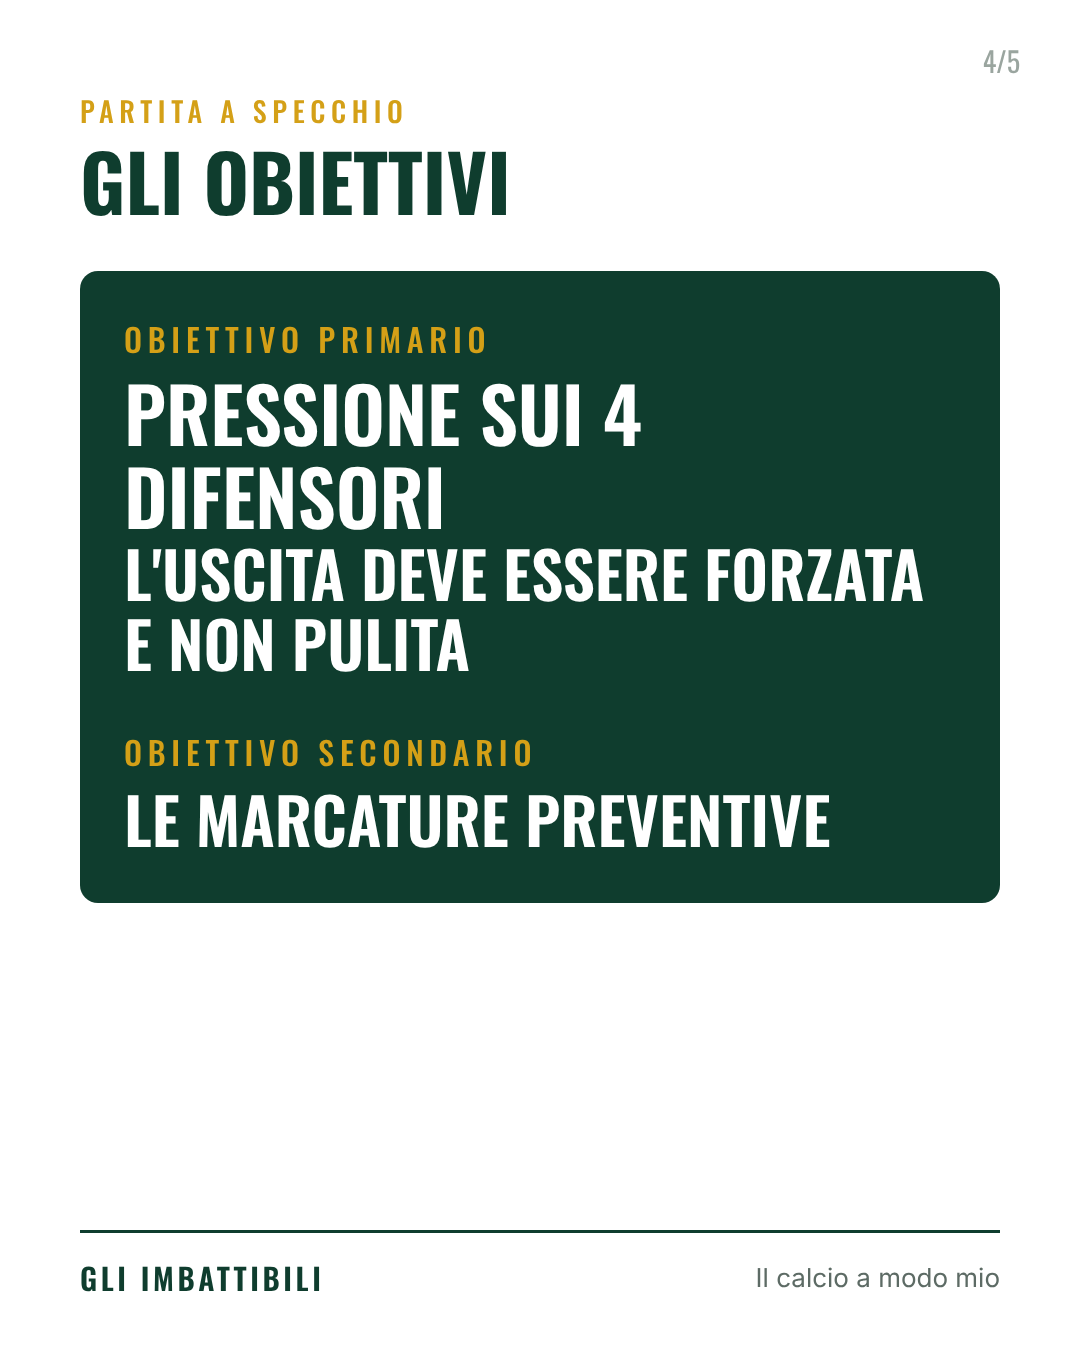
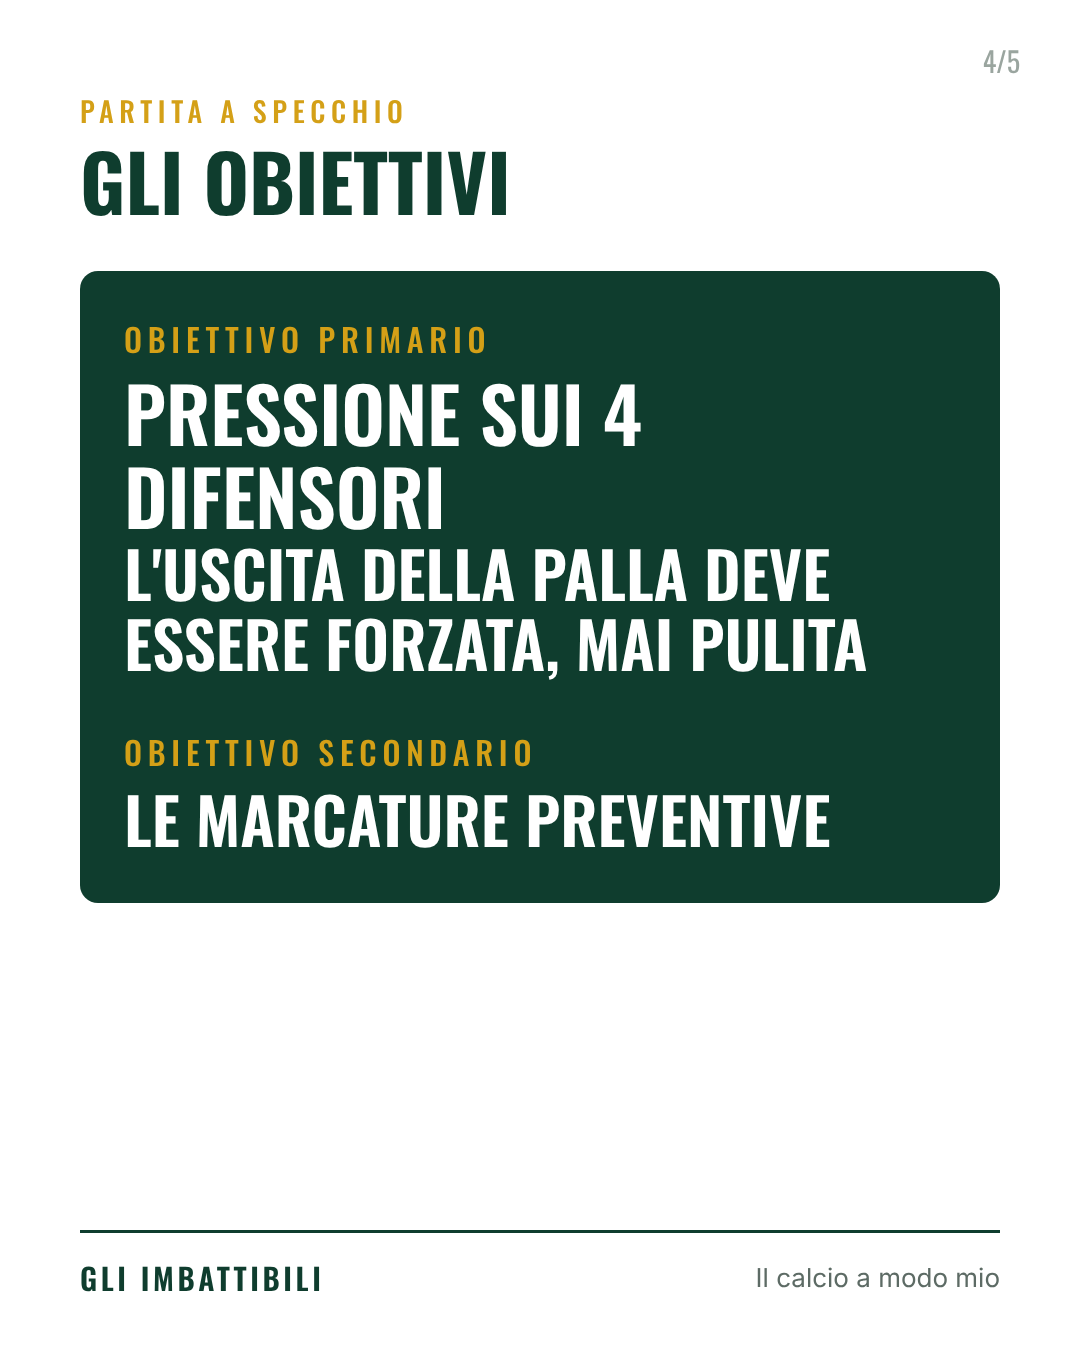
Preventiva 2: testi riscritti in forma professionale; regola appunti in CLAUDE.md
Claude-Session: https://claude.ai/code/session_01Y6imChDnJpMKHUHGGzDa7m

Changed region(s): [[0.1222, 0.4044, 0.8556, 0.4978]]

diff --git a/marketing/social/post-solo6-4x5.html b/marketing/social/post-solo6-4x5.html
@@ -115,17 +115,17 @@ h1, h2 { font-family: Oswald, sans-serif; font-weight: 700; text-transform: uppe
     <path d="M118,140 L322,112" stroke="#fff" stroke-width="2.5" fill="none" stroke-dasharray="7 5" marker-end="url(#freccia)"/>
     <text x="250" y="14" fill="#fff" font-family="Oswald" font-size="11" text-anchor="middle" letter-spacing="1">NESSUNO CAMBIA METÀ · LA PALLA SÌ</text>
   </svg></div>
-  <p class="desc"><b>10 contro 10</b> con i portieri. Campo in due metà: in ognuna <b>6 attaccanti</b> di una squadra contro i <b>4 difensori</b> dell'altra. La palla circola libera tra le metà ma nessun giocatore può cambiare metà: i difensori giocano sempre in <b>inferiorità</b>.</p>
+  <p class="desc"><b>10 contro 10</b> più i portieri. Mezzo campo diviso in due metà: in ciascuna giocano <b>6 attaccanti</b> di una squadra contro i <b>4 difensori</b> dell'altra. La palla circola liberamente tra le metà mentre i giocatori restano nella propria: la difesa lavora sempre in <b>inferiorità numerica</b>.</p>
   <div class="marchio"><b>GLI IMBATTIBILI</b><span>Il calcio a modo mio</span></div>
 </section>
 <section class="slide int">
   <div class="num">3/5</div>
   <div class="kicker">Partita a specchio</div>
   <h2>Le regole</h2>
-  <ul class="punti"><li><b>2 tempi da 15'</b></li><li>Attaccanti a <b>3 tocchi</b>, difensori <b>liberi</b></li><li><b>Gol = 1 punto</b></li><li>Nessuno passa nell'altra metà campo: <b>solo la palla</b></li><li>Si gioca su <b>mezzo campo</b> diviso in due: almeno <b>50 m</b></li><li>Da <b>8 contro 8</b> a <b>11 contro 11</b>. Se i numeri sono dispari c'è un <b>jolly</b> libero di muoversi</li></ul>
+  <ul class="punti"><li><b>2 tempi da 15'</b></li><li>Attaccanti a <b>3 tocchi</b>, difensori <b>liberi</b></li><li><b>Gol = 1 punto</b></li><li>Nessun giocatore può passare nell'altra metà: <b>circola solo la palla</b></li><li>Campo: <b>mezzo campo</b> diviso in due, di almeno <b>50 m</b></li><li>Da <b>8 contro 8</b> a <b>11 contro 11</b>. Con numeri dispari entra un <b>jolly</b> libero di muoversi</li></ul>
   <div class="marchio"><b>GLI IMBATTIBILI</b><span>Il calcio a modo mio</span></div>
 </section>
-<section class="slide int"><div class="num">4/5</div><div class="kicker">Partita a specchio</div><h2>Gli obiettivi</h2><div class="obiettivo"><span>Obiettivo primario</span>Pressione sui 4 difensori<i>L'uscita deve essere forzata e non pulita</i><span class='sec'>Obiettivo secondario</span><i>Le marcature preventive</i></div><div class="marchio"><b>GLI IMBATTIBILI</b><span>Il calcio a modo mio</span></div></section>
+<section class="slide int"><div class="num">4/5</div><div class="kicker">Partita a specchio</div><h2>Gli obiettivi</h2><div class="obiettivo"><span>Obiettivo primario</span>Pressione sui 4 difensori<i>L'uscita della palla deve essere forzata, mai pulita</i><span class='sec'>Obiettivo secondario</span><i>Le marcature preventive</i></div><div class="marchio"><b>GLI IMBATTIBILI</b><span>Il calcio a modo mio</span></div></section>
 <section class="slide fine">
   <img class="logo2" src="../../materiale/brand/logo-cerchio.png">
   <h1>Gli<span>Imbattibili</span></h1>

diff --git a/marketing/social/post-solo6-9x16.html b/marketing/social/post-solo6-9x16.html
@@ -115,17 +115,17 @@ h1, h2 { font-family: Oswald, sans-serif; font-weight: 700; text-transform: uppe
     <path d="M118,140 L322,112" stroke="#fff" stroke-width="2.5" fill="none" stroke-dasharray="7 5" marker-end="url(#freccia)"/>
     <text x="250" y="14" fill="#fff" font-family="Oswald" font-size="11" text-anchor="middle" letter-spacing="1">NESSUNO CAMBIA METÀ · LA PALLA SÌ</text>
   </svg></div>
-  <p class="desc"><b>10 contro 10</b> con i portieri. Campo in due metà: in ognuna <b>6 attaccanti</b> di una squadra contro i <b>4 difensori</b> dell'altra. La palla circola libera tra le metà ma nessun giocatore può cambiare metà: i difensori giocano sempre in <b>inferiorità</b>.</p>
+  <p class="desc"><b>10 contro 10</b> più i portieri. Mezzo campo diviso in due metà: in ciascuna giocano <b>6 attaccanti</b> di una squadra contro i <b>4 difensori</b> dell'altra. La palla circola liberamente tra le metà mentre i giocatori restano nella propria: la difesa lavora sempre in <b>inferiorità numerica</b>.</p>
   <div class="marchio"><b>GLI IMBATTIBILI</b><span>Il calcio a modo mio</span></div>
 </section>
 <section class="slide int">
   <div class="num">3/5</div>
   <div class="kicker">Partita a specchio</div>
   <h2>Le regole</h2>
-  <ul class="punti"><li><b>2 tempi da 15'</b></li><li>Attaccanti a <b>3 tocchi</b>, difensori <b>liberi</b></li><li><b>Gol = 1 punto</b></li><li>Nessuno passa nell'altra metà campo: <b>solo la palla</b></li><li>Si gioca su <b>mezzo campo</b> diviso in due: almeno <b>50 m</b></li><li>Da <b>8 contro 8</b> a <b>11 contro 11</b>. Se i numeri sono dispari c'è un <b>jolly</b> libero di muoversi</li></ul>
+  <ul class="punti"><li><b>2 tempi da 15'</b></li><li>Attaccanti a <b>3 tocchi</b>, difensori <b>liberi</b></li><li><b>Gol = 1 punto</b></li><li>Nessun giocatore può passare nell'altra metà: <b>circola solo la palla</b></li><li>Campo: <b>mezzo campo</b> diviso in due, di almeno <b>50 m</b></li><li>Da <b>8 contro 8</b> a <b>11 contro 11</b>. Con numeri dispari entra un <b>jolly</b> libero di muoversi</li></ul>
   <div class="marchio"><b>GLI IMBATTIBILI</b><span>Il calcio a modo mio</span></div>
 </section>
-<section class="slide int"><div class="num">4/5</div><div class="kicker">Partita a specchio</div><h2>Gli obiettivi</h2><div class="obiettivo"><span>Obiettivo primario</span>Pressione sui 4 difensori<i>L'uscita deve essere forzata e non pulita</i><span class='sec'>Obiettivo secondario</span><i>Le marcature preventive</i></div><div class="marchio"><b>GLI IMBATTIBILI</b><span>Il calcio a modo mio</span></div></section>
+<section class="slide int"><div class="num">4/5</div><div class="kicker">Partita a specchio</div><h2>Gli obiettivi</h2><div class="obiettivo"><span>Obiettivo primario</span>Pressione sui 4 difensori<i>L'uscita della palla deve essere forzata, mai pulita</i><span class='sec'>Obiettivo secondario</span><i>Le marcature preventive</i></div><div class="marchio"><b>GLI IMBATTIBILI</b><span>Il calcio a modo mio</span></div></section>
 <section class="slide fine">
   <img class="logo2" src="../../materiale/brand/logo-cerchio.png">
   <h1>Gli<span>Imbattibili</span></h1>

diff --git a/marketing/social/genera-post.py b/marketing/social/genera-post.py
@@ -198,15 +198,15 @@ POST = [
         gancio="Preventiva<span>2</span>",
         schema=schema_specchio(),
         titolo2="Partita a specchio",
-        testo2="<b>10 contro 10</b> con i portieri. Campo in due metà: in ognuna <b>6 attaccanti</b> di una squadra contro i <b>4 difensori</b> dell'altra. La palla circola libera tra le metà ma nessun giocatore può cambiare metà: i difensori giocano sempre in <b>inferiorità</b>.",
-        obiettivo="<span>Obiettivo primario</span>Pressione sui 4 difensori<i>L'uscita deve essere forzata e non pulita</i><span class='sec'>Obiettivo secondario</span><i>Le marcature preventive</i>",
+        testo2="<b>10 contro 10</b> più i portieri. Mezzo campo diviso in due metà: in ciascuna giocano <b>6 attaccanti</b> di una squadra contro i <b>4 difensori</b> dell'altra. La palla circola liberamente tra le metà mentre i giocatori restano nella propria: la difesa lavora sempre in <b>inferiorità numerica</b>.",
+        obiettivo="<span>Obiettivo primario</span>Pressione sui 4 difensori<i>L'uscita della palla deve essere forzata, mai pulita</i><span class='sec'>Obiettivo secondario</span><i>Le marcature preventive</i>",
         titolo3="Le regole",
         punti=["<b>2 tempi da 15'</b>",
                "Attaccanti a <b>3 tocchi</b>, difensori <b>liberi</b>",
                "<b>Gol = 1 punto</b>",
-               "Nessuno passa nell'altra metà campo: <b>solo la palla</b>",
-               "Si gioca su <b>mezzo campo</b> diviso in due: almeno <b>50 m</b>",
-               "Da <b>8 contro 8</b> a <b>11 contro 11</b>. Se i numeri sono dispari c'è un <b>jolly</b> libero di muoversi"],
+               "Nessun giocatore può passare nell'altra metà: <b>circola solo la palla</b>",
+               "Campo: <b>mezzo campo</b> diviso in due, di almeno <b>50 m</b>",
+               "Da <b>8 contro 8</b> a <b>11 contro 11</b>. Con numeri dispari entra un <b>jolly</b> libero di muoversi"],
         fine_sub="Secondo gradino del percorso sulla <b>marcatura preventiva</b>. La Juniores che ha vinto il campionato <b>senza perdere una partita</b>.",
     ),
 ]

diff --git a/CLAUDE.md b/CLAUDE.md
@@ -10,6 +10,7 @@ Categoria** (Toscana): allenamenti **mercoledì e venerdì 18-21** (quei giorni 
 - Scrive in italiano, spesso dal telefono, a volte con messaggi vocali trascritti. Rispondere
   in italiano, con calma, un passo alla volta e senza elenchi lunghi di opzioni.
 - **Non mettere la virgola prima di "e"**, salvo incisi o ripetizioni enfatiche.
+- **Appunti → scrittura professionale (16/10)**: l'allenatore detta o scrive le cose come appunti (anche con errori da dettatura); Claude le riscrive in forma chiara e professionale nei post e nei PDF, tenendo il senso e segnalando cosa è stato aggiunto.
 - Manda **foto dei fogli scritti a mano** (o note dal telefono) di un allenamento alla volta.
 - Flusso: trascrivere → impaginare il PDF → inviarlo → fare **poche domande precise** solo
   sui punti illeggibili o ambigui → correggere.
